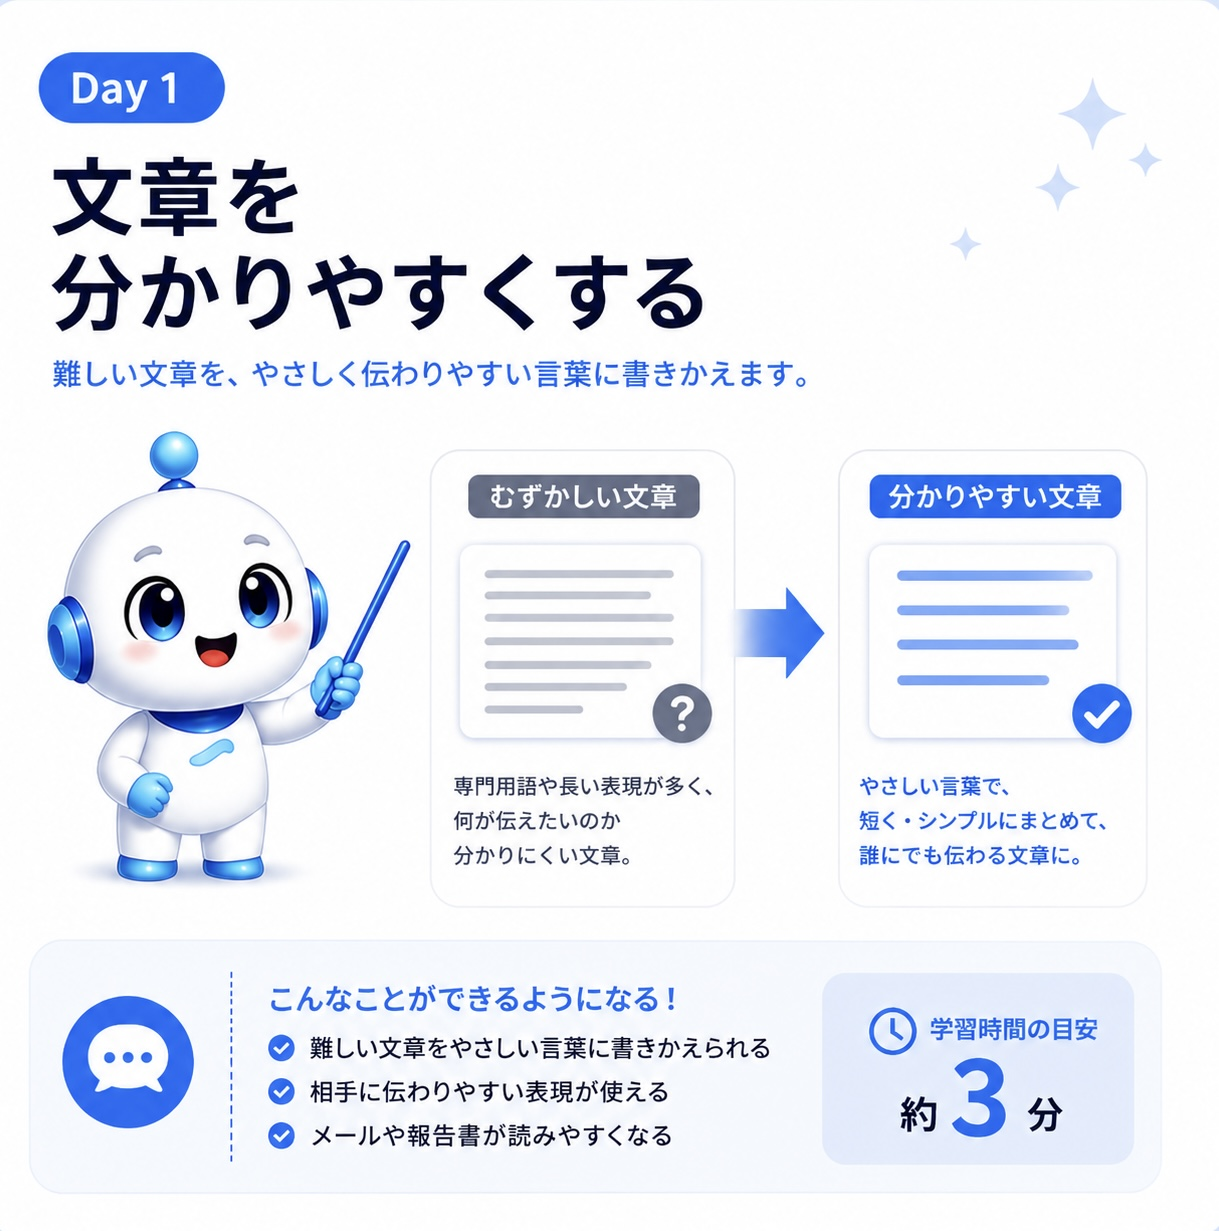
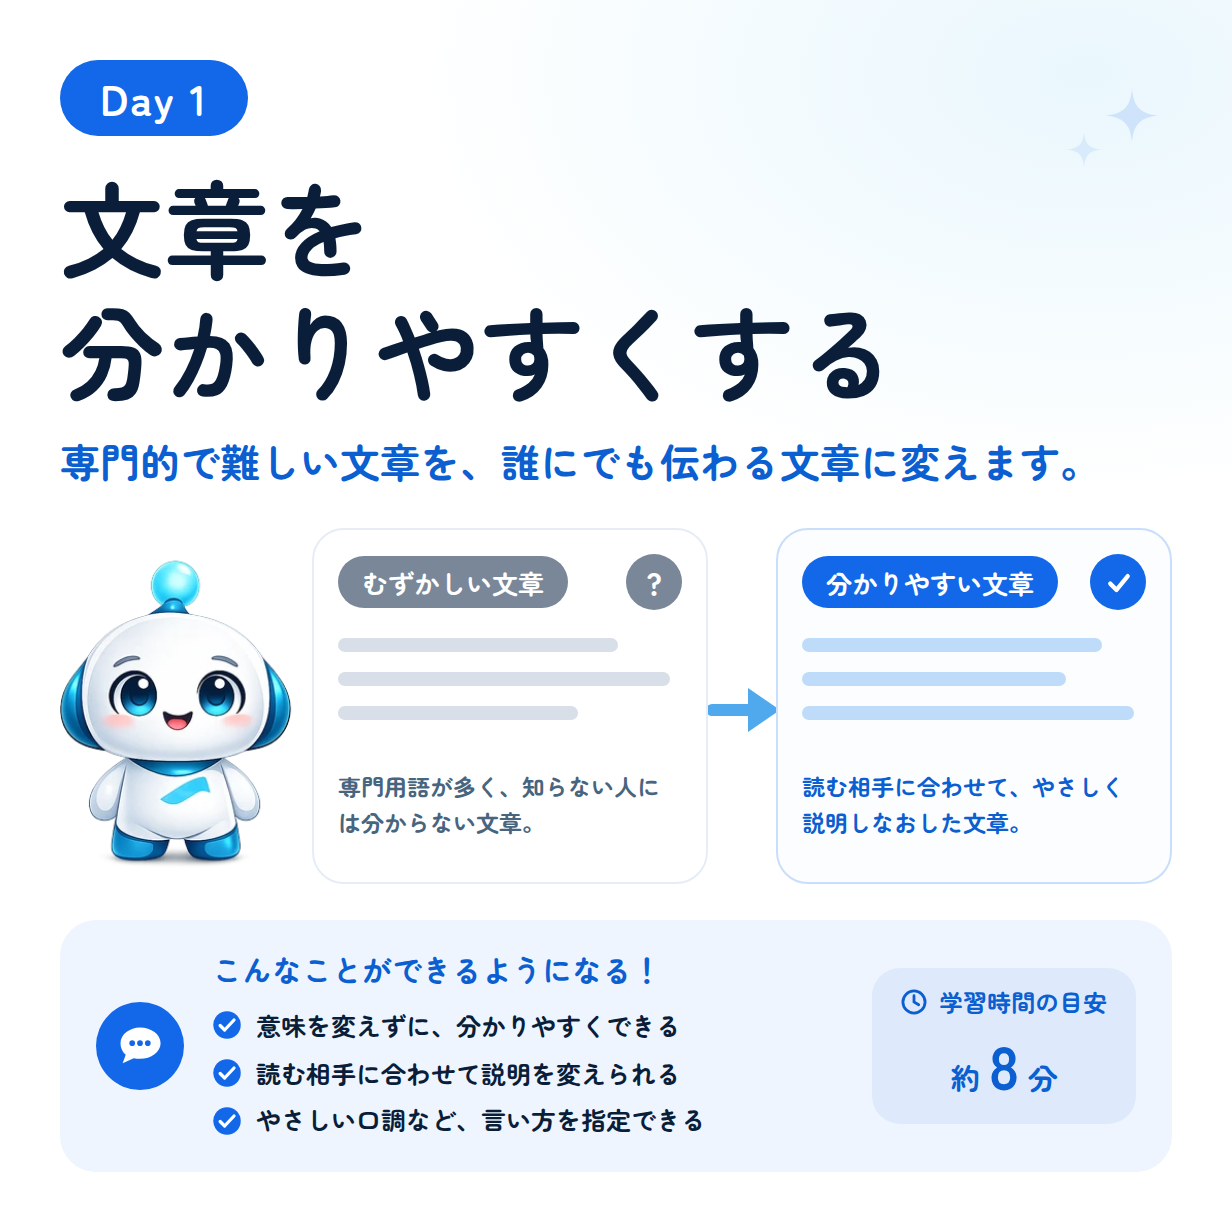
全体図が「短く・シンプルにまとめて」と言っていた
Day1 のねらいは短くすることではない——理解できる／相手に合っている／
伝わりやすい、の3つ。短くまとめるのは Day2（要約）の役目で、教材の
中身はそう直したのに、最初に出る1枚だけが前のことを言い続けていた。

作り直した中身:

  後の札  「短く・シンプルにまとめて」
        → 「読む相手に合わせて、やさしく説明しなおした文章。」
  3つの箇条書きを、いまの outcomes に合わせた
  学習時間  約3分 → 約8分

時間は教材データ（estimatedMinutes: 8）に合わせた。コース一覧も
レッスン行も再開カードも「8分」と出していて、この絵だけが3分だった。
画面側が自分の数字を黙らせている（showsMinutes）のは、2つ並ぶのを
避けるためであって、3分が正しいからではない。

ポーは公式アセット（talking）をそのまま置いた。前の絵の指し棒を
持ったポーは描き起こしたもので、Canonical Design の外にあった。

比は 1:1 のまま（1219×1231 → 1232×1232）。Day2〜8 の全体図も 1:1 で、
Day を移るたびに開いた一枚の高さが跳ねないようにするため。
可逆WebP（VP8L）も揃えてある。688KB → 187KB。

Claude-Session: https://claude.ai/code/session_01UWDfE5KWwE2qpUypBSESMs

diff --git a/frontend/src/course/teachingImages.ts b/frontend/src/course/teachingImages.ts
@@ -141,10 +141,10 @@ const BY_LESSON: Record<string, Record<string, TeachingImageEntry>> = {
   rewrite_text: {
     outcome_preview: {
       src: "/assets/teaching/day1_overview.webp",
-      alt: "Day1「文章を分かりやすくする」の全体図。専門用語が多く何を伝えたいのか分かりにくい文章が、やさしい言葉で短くまとまった文章に変わることを並べて示し、終えたらできるようになること3つと学習時間の目安を添えたもの。",
+      alt: "Day1「文章を分かりやすくする」の全体図。専門用語が多く、その分野を知らない人には分からない文章が、読む相手に合わせてやさしく説明しなおした文章に変わることを並べて示し、終えたらできるようになること3つと学習時間の目安を添えたもの。",
       visualType: "lesson_overview",
-      width: 1219,
-      height: 1231,
+      width: 1232,
+      height: 1232,
       showsMinutes: true,
     },
     concept_1: {

diff --git a/frontend/src/components/course/MoreSheet.tsx b/frontend/src/components/course/MoreSheet.tsx
@@ -50,8 +50,8 @@ export interface MoreSheetProps {
    * なぜ「高さを8割で固定」ではないか
    * ---------------------------------
    * 一度そう作って、実際に測ってから戻した。全体図はほぼ正方形
-   * （1219×1231）で、スマホでは**幅が上限**になる。393px の画面なら
-   * どうやっても 393×397 より大きくならない。
+   * （1232×1232）で、スマホでは**幅が上限**になる。393px の画面なら
+   * どうやっても 393×393 より大きくならない。
    *
    * 高さだけ 8 割（581px）に決めると、絵は 397px のままで、
    * 余った 135px が白いまま上下に残る——**絵は大きくならず、
